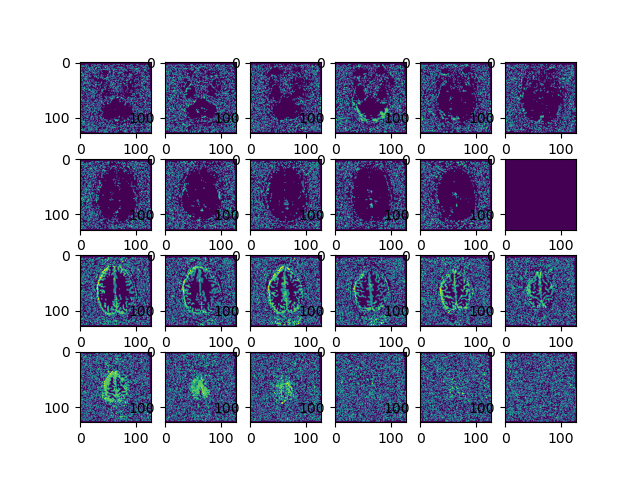
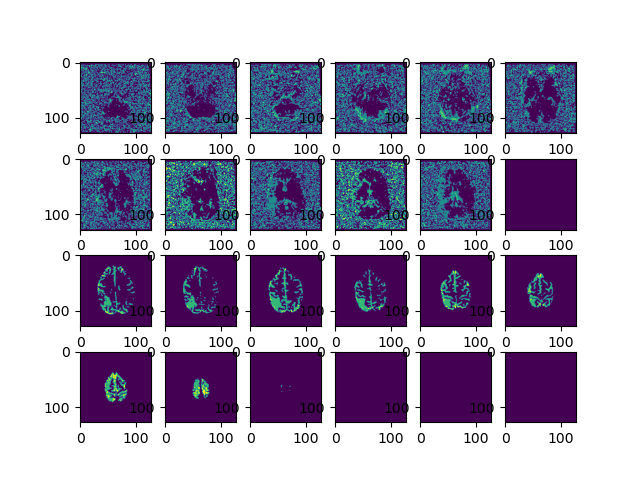
Fixed dealing with nan pixels: isntead of turning to 0, we turn to the 'max' value now.

diff --git a/extract_train_test.py b/extract_train_test.py
@@ -75,9 +75,12 @@ class extract_train_test:
         X_modified = X_modified.reshape(-1, X_modified.shape[-1]) # (393216, 60)
         y_modified = y_modified.reshape(-1, y_modified.shape[-1]) # (393216, 1)
 
-        # Replace nan values with 0
-        X_nan_fixed = np.nan_to_num(X_modified)  # SimpleImputer(missing_values=np.nan, strategy='mean').fit(X_modified)
-        Y_nan_fixed = np.nan_to_num(y_modified)  # SimpleImputer(missing_values=np.nan, strategy='mean').fit(y_modified)
+        # Replace nan values with median pixel value
+
+        nan_pixel_value = np.nanmax(X_modified.copy().flatten())
+        print("NEW PIXEL VALUE: ", nan_pixel_value)
+        X_nan_fixed = np.nan_to_num(X_modified, nan=nan_pixel_value)  # SimpleImputer(missing_values=np.nan, strategy='mean').fit(X_modified)
+        Y_nan_fixed = np.nan_to_num(y_modified, nan=nan_pixel_value)  # SimpleImputer(missing_values=np.nan, strategy='mean').fit(y_modified)
 
         return X_nan_fixed, Y_nan_fixed
 

diff --git a/models.py b/models.py
@@ -6,6 +6,7 @@ from sklearn.neighbors import KNeighborsClassifier
 from sklearn.svm import SVC
 from sklearn.pipeline import make_pipeline
 from sklearn.preprocessing import StandardScaler
+from sklearn.neural_network import MLPClassifier
 
 class models():
     def __init__(self, model_type="LogisticRegression"):
@@ -15,6 +16,9 @@ class models():
             self.model = LinearRegression()
         elif model_type == "SVM":
             self.model = make_pipeline(StandardScaler(), SVC(gamma='auto'))
+        elif model_type == "MultiLayerPerceptron":
+            self.model = MLPClassifier(solver='lbfgs', alpha=1e-5,
+                     hidden_layer_sizes=(5, 2), random_state=1)
 
 
     def train(self, X_train, y_train):

diff --git a/main.py b/main.py
@@ -83,7 +83,7 @@ plt.show()
 # Extracter class with built-in functions for visualizing and extracting information from database
 extracter = extract_train_test()
 
-# Visualizing X pixels in slice Y
+# Visualizing Time Series for set of Pixels
 """
 extracter.visualize_pixel_plot_per_slice(DSC_database, RAPID_database, num_pixels=150, slice_index=12)
 """
@@ -101,7 +101,7 @@ y_train = np.ravel(y_train)
 y_test = np.ravel(y_test)
 
 # Model types for evaluating model
-model_types = ["LogisticRegression", "LinearRegression","SVM"]
+model_types = ["LogisticRegression", "LinearRegression","SVM", "MultiLayerPerceptron"]
 
 # Evaluate several models performance
 evaluate_models = False
